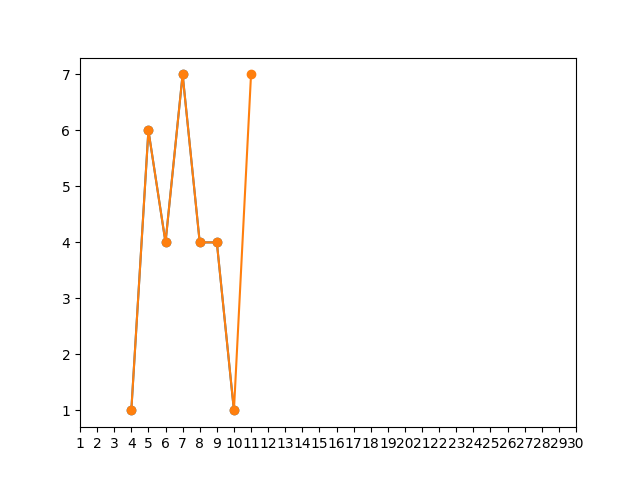
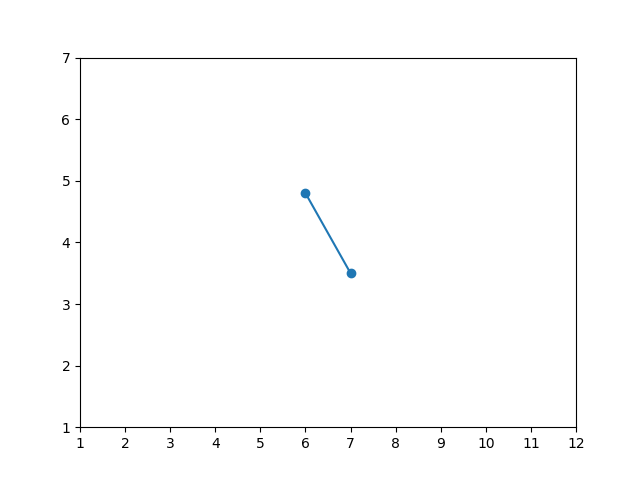
yearly stats

diff --git a/Calendar/templates/stats.html b/Calendar/templates/stats.html
@@ -14,6 +14,13 @@
     </form>
 </div>
 <hr>
+<div class="container" id="stats">
+  <form method="post" action="/stats/">
+    {% csrf_token %}
+    <button type="submit" name="monthly">Monthly</button>
+    <button type="submit" name="yearly">Yearly</button>
+  </form>
+</div>
 <img src="{% static 'Calendar/mood.png' %}" alt="fuck">
 
 {% endblock %}

diff --git a/Calendar/views.py b/Calendar/views.py
@@ -1,9 +1,11 @@
 import calendar
 import datetime
+import os
 import matplotlib
 import numpy
 matplotlib.use('Agg')
 from matplotlib import pyplot as plt
+from calendar import HTMLCalendar, monthrange
 
 from django.shortcuts import redirect, render
 from django.http import HttpResponse, HttpResponseRedirect
@@ -11,18 +13,17 @@ from django.contrib.auth.forms import UserCreationForm
 from django.urls import reverse, reverse_lazy
 from django.views import generic
 from django import forms
-from Calendar.forms import ButtonForm, DayForm
-from calendar import HTMLCalendar, monthrange
-from Calendar.models import Day, Month
 from django.contrib.auth.decorators import login_required
 
+from Calendar.forms import ButtonForm, DayForm
+from Calendar.models import Day, Month
 from Calendar.utils import Calendar
 
 # track dates
 state = {
     "cal_date": datetime.date.today(),
     "review_date": datetime.date.today(),
-    "stat_type": "monthly",
+    "stat_type": "monthly", # 'monthly' or 'yearly'
 }
 
 class SignUpView(generic.CreateView):
@@ -182,10 +183,19 @@ def stats(request):
         if request.POST.get("current") == "":
             state["cal_date"] = datetime.date.today()
             return redirect("/stats/#calendar")
+        
         for day in range(1, 32):
             if request.POST.get(str(day)) == "":
                 state["review_date"] = datetime.date(state["cal_date"].year, state["cal_date"].month, day)
                 return redirect('/review/')
+        
+        if request.POST.get("monthly") == "":
+            state["stat_type"] = "monthly"
+            return redirect("/stats/#stats")
+        
+        if request.POST.get("yearly") == "":
+            state["stat_type"] = "yearly"
+            return redirect("/stats/#stats")
     
     try:
         user = request.user
@@ -199,29 +209,39 @@ def stats(request):
     stat_type = state["stat_type"]
 
     if stat_type == "monthly":
-        # axes = []
         days = Day.objects.all().filter(user = user).filter(date__year=year).filter(date__month=month)
-        # for day in days:
-        #     axes.append((int(day.date.day), int(day.mood)))
         axes = {int(day.date.day): int(day.mood) for day in days}
         
-        #moods = [x[1] for x in axes]
-        dates = numpy.array([x for x in range(1, monthrange(year, month)[1]+1)])
+        dates = numpy.array(range(1, monthrange(year, month)[1]+1))
         moods = numpy.array([axes[day] if day in axes else None for day in dates])
         moods = numpy.ma.masked_where(moods == None, moods)
-
-        # arr_none = numpy.array([None])
-        # mask = (moods != None)
-        # moods = []
-        # for day in dates:
-        #     if day 
-
-        print(moods)
-        print(dates)
 
         plt.plot(dates, moods, 'o-')
         plt.xticks(dates)
         plt.yticks(range(1, 8))
         plt.savefig('static/Calendar/mood.png')
+        plt.figure().clear()
+
+    if stat_type == "yearly":
+        days = Day.objects.all().filter(user = user).filter(date__year=year)
+        month_ratings = {}
+        for m in range(1, 13):
+            month_days = days.filter(date__month=m)
+            try:
+                avg = float(numpy.average([int(day.mood) for day in month_days if int(day.mood)]))
+            except:
+                avg = None
+            month_ratings[m] = avg
+        
+        x = numpy.array(range(1, 13))
+        y = [month_ratings[m] for m in range(1, 13)]
+        y = numpy.ma.masked_where(y == None, y)
+        print(y)
+
+        plt.plot(x, y, 'o-')
+        plt.xticks(x)
+        plt.yticks(range(1, 8))
+        plt.savefig('static/Calendar/mood.png')
+        plt.figure().clear()
 
     return render(request, "stats.html", context)
